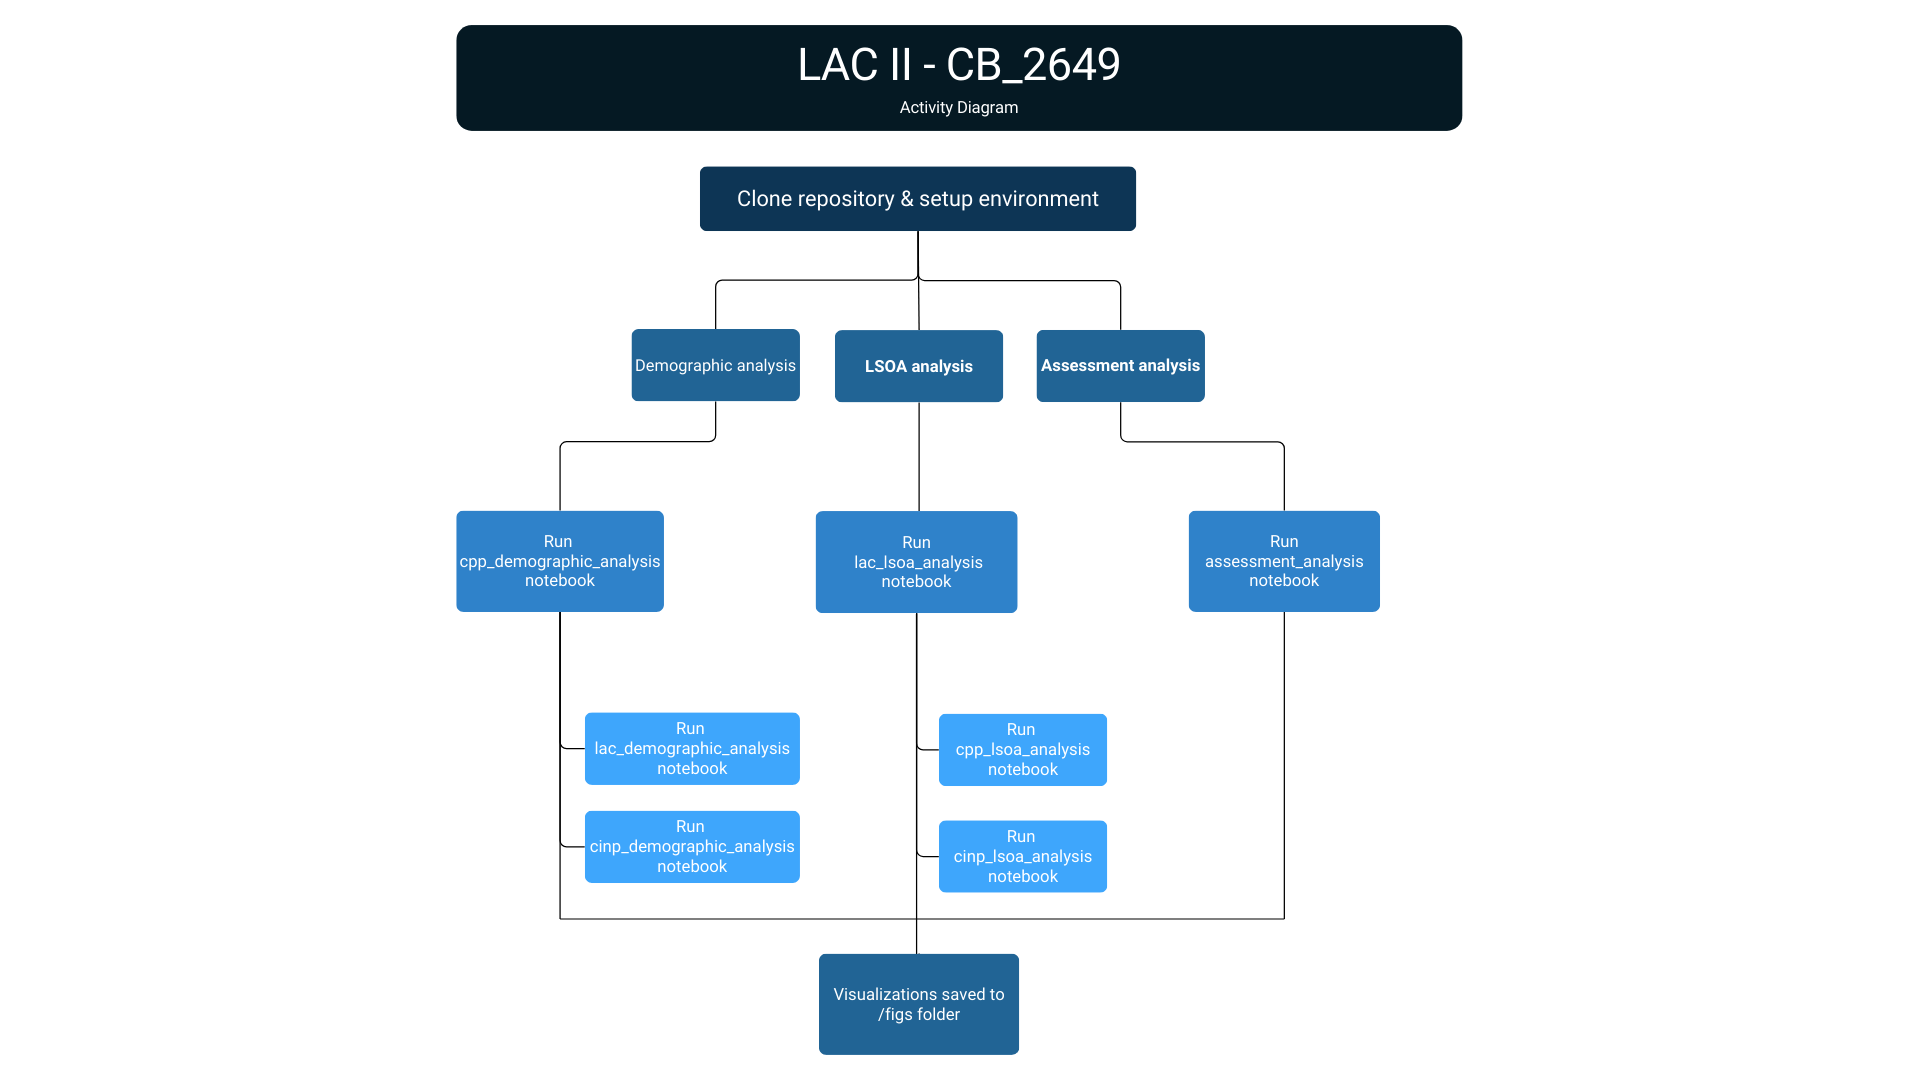
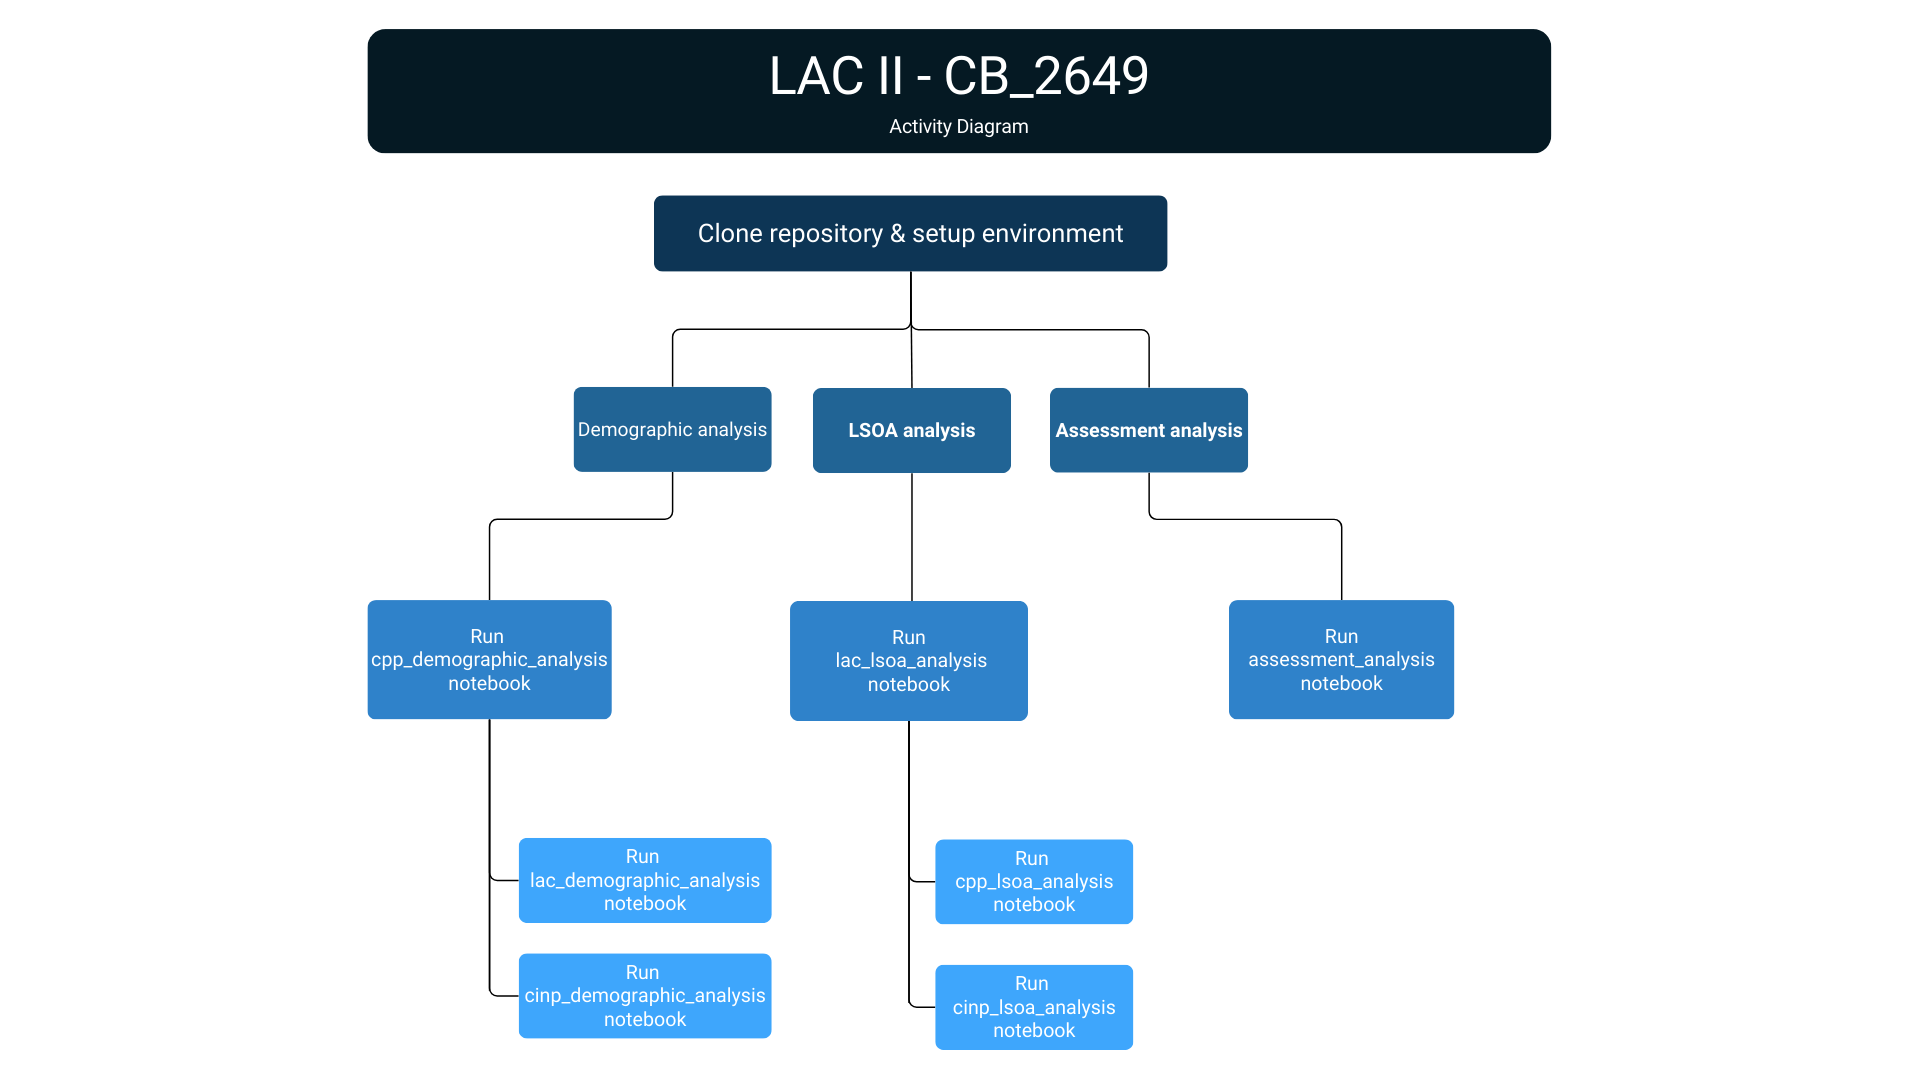
updated readme and removed plt.savefig

Changed region(s): [[0.1875, 0.0, 0.8125, 0.9778]]

diff --git a/code/lsoa_analysis_helper.py b/code/lsoa_analysis_helper.py
@@ -163,7 +163,7 @@ def plot_intervention_map(
     plt.tight_layout()
 
     output_path = f"{base_output_path}/{intervention_name.lower()}_rate_map.png"
-    plt.savefig(output_path, dpi=300)
+    # plt.savefig(output_path, dpi=300)
     plt.show()
   
 
@@ -241,7 +241,7 @@ def plot_cumulative_distribution(
     plt.grid(True, linestyle='--', alpha=.4)
 
     output_path = f"{base_output_path}/{intervention_name.lower()}_cumulative_distribution.png"
-    plt.savefig(output_path, dpi=300)
+    # plt.savefig(output_path, dpi=300)
     plt.show()  
 
 
@@ -299,7 +299,7 @@ def analyze_imd_relationship(
 
     # Save plot
     output_path = f"{base_output_path}/{intervention_name.lower()}_rate_vs_imd_decile.png"
-    plt.savefig(output_path, dpi=300)
+    # plt.savefig(output_path, dpi=300)
     plt.show()
 
     # Statistical Analysis
@@ -506,7 +506,7 @@ def analyze_age_distribution(merged_data, children_population, intervention_name
 
     # Adjust layout
     plt.tight_layout()
-    plt.savefig(f'../figs/{intervention_name}_age_dist_high_other_groups.png', dpi=300)
+    # plt.savefig(f'../figs/{intervention_name}_age_dist_high_other_groups.png', dpi=300)
     plt.show()
 
 
@@ -608,7 +608,7 @@ def analyze_ethnicity_distribution(merged_data, children_population, interventio
     # Adjust layout
     plt.tight_layout()
     plt.subplots_adjust(top=0.9)
-    plt.savefig(f'../figs/{intervention_name}_ethnicity_dist_high_other_groups.png', dpi=300)
+    # plt.savefig(f'../figs/{intervention_name}_ethnicity_dist_high_other_groups.png', dpi=300)
     plt.show()
 
 
@@ -714,7 +714,7 @@ def analyze_grouped_ethnicity_distribution(merged_data, children_population, int
     # Adjust layout
     plt.tight_layout()
     plt.subplots_adjust(top=0.9)
-    plt.savefig(f'../figs/{intervention_name}_ethnicity_dist_high_other_grouped.png', dpi=300)
+    # plt.savefig(f'../figs/{intervention_name}_ethnicity_dist_high_other_grouped.png', dpi=300)
     plt.show()
     
     
@@ -851,7 +851,7 @@ def analyze_imd_domains(children_population, percentile_threshold=90, interventi
     # Adjust layout
     plt.tight_layout()
     plt.subplots_adjust(top=0.9, bottom=0.1)
-    plt.savefig(f'../figs/{intervention_name}_IMDs_dist_high_other_groups_{percentile_threshold}th.png', dpi=300)
+    # plt.savefig(f'../figs/{intervention_name}_IMDs_dist_high_other_groups_{percentile_threshold}th.png', dpi=300)
     plt.show()
     
     
@@ -1024,5 +1024,5 @@ def analyze_assessment_categories(
     
     # Save the figure
     output_path = f"{base_output_path}/{intervention_name.lower()}_assessment_in_groups.png"
-    plt.savefig(output_path, dpi=300, bbox_inches='tight')
+    # plt.savefig(output_path, dpi=300, bbox_inches='tight')
     plt.show()

diff --git a/code/demographic_analysis_helpers.py b/code/demographic_analysis_helpers.py
@@ -139,7 +139,7 @@ def plot_distributions(dataframe, intervention_name, color=color):
             va='center',
             fontsize=10)
     plt.tight_layout()
-    plt.savefig(f'../figs/{intervention_name}_Ethinicity_Dist.png', dpi=300)
+    # plt.savefig(f'../figs/{intervention_name}_Ethinicity_Dist.png', dpi=300)
     plt.show()
 
     # PCArea Distribution
@@ -202,7 +202,7 @@ def plot_age_distribution(
     # Adjust y-axis to make room for labels
     plt.ylim(0, max(age_counts.values) * 1.15)
     plt.tight_layout()
-    plt.savefig(f'../figs/{intervention_name.lower()}_entryagegroup_dist.png', dpi=300)
+    # plt.savefig(f'../figs/{intervention_name.lower()}_entryagegroup_dist.png', dpi=300)
     plt.show()
 
 def plot_monthly_trends(dataframe, intervention_name, date_column='StartDate', color=color, window=6):
@@ -316,7 +316,7 @@ def plot_monthly_entries_exits(dataframe, start_date_col, end_date_col, interven
     plt.tight_layout()
 
     # Save figure
-    plt.savefig(f'../figs/{intervention_name}_monthly_entries_exits', dpi=300, bbox_inches='tight', facecolor='white')
+    # plt.savefig(f'../figs/{intervention_name}_monthly_entries_exits', dpi=300, bbox_inches='tight', facecolor='white')
     plt.show()
 
     # Print summary statistics
@@ -498,7 +498,7 @@ def plot_median_duration_by_age(dataframe, intervention_name, color=color):
                 ha='center', va='bottom')
 
     plt.tight_layout()
-    plt.savefig(f'../figs/{intervention_name}_median_duration_by_age.png',
+    # plt.savefig(f'../figs/{intervention_name}_median_duration_by_age.png',
                 dpi=300, bbox_inches='tight', facecolor='white')
     plt.show()
     
@@ -538,6 +538,6 @@ def plot_median_intervention_duration_over_time(dataframe, intervention_name, en
     plt.ylabel('Median Duration (days)')
     plt.grid(True, alpha=0.3)
     plt.tight_layout()
-    plt.savefig(f"../figs/{intervention_name}_median_duration_over_time.png", dpi=300, bbox_inches='tight')
+    # plt.savefig(f"../figs/{intervention_name}_median_duration_over_time.png", dpi=300, bbox_inches='tight')
     plt.show()
     

diff --git a/README.md b/README.md
@@ -16,7 +16,6 @@
     - [LSOA-Level Analysis](#LSOA-Level-Analysis)
     - [Comprehensive Assessment](#Comprehensive-Assessment)
 - [Key Modules](#Key-Modules)
-- [Results](#Results)
 - [License](License)
 ---
 ## Overview
@@ -114,8 +113,6 @@ jupyter notebook notebooks/assessment_analysis.ipynb
 - `analysis_helpers.py`: Analysis functions for demographic analysis
 - `lsoa_analysis_helper.py`: Geospatial analysis functions for LSOA-level analysis
 
-## Results
-Visualizations are stored in `figs/` folder.
 
 ## 7. License
 See the LICENSE file for details.
